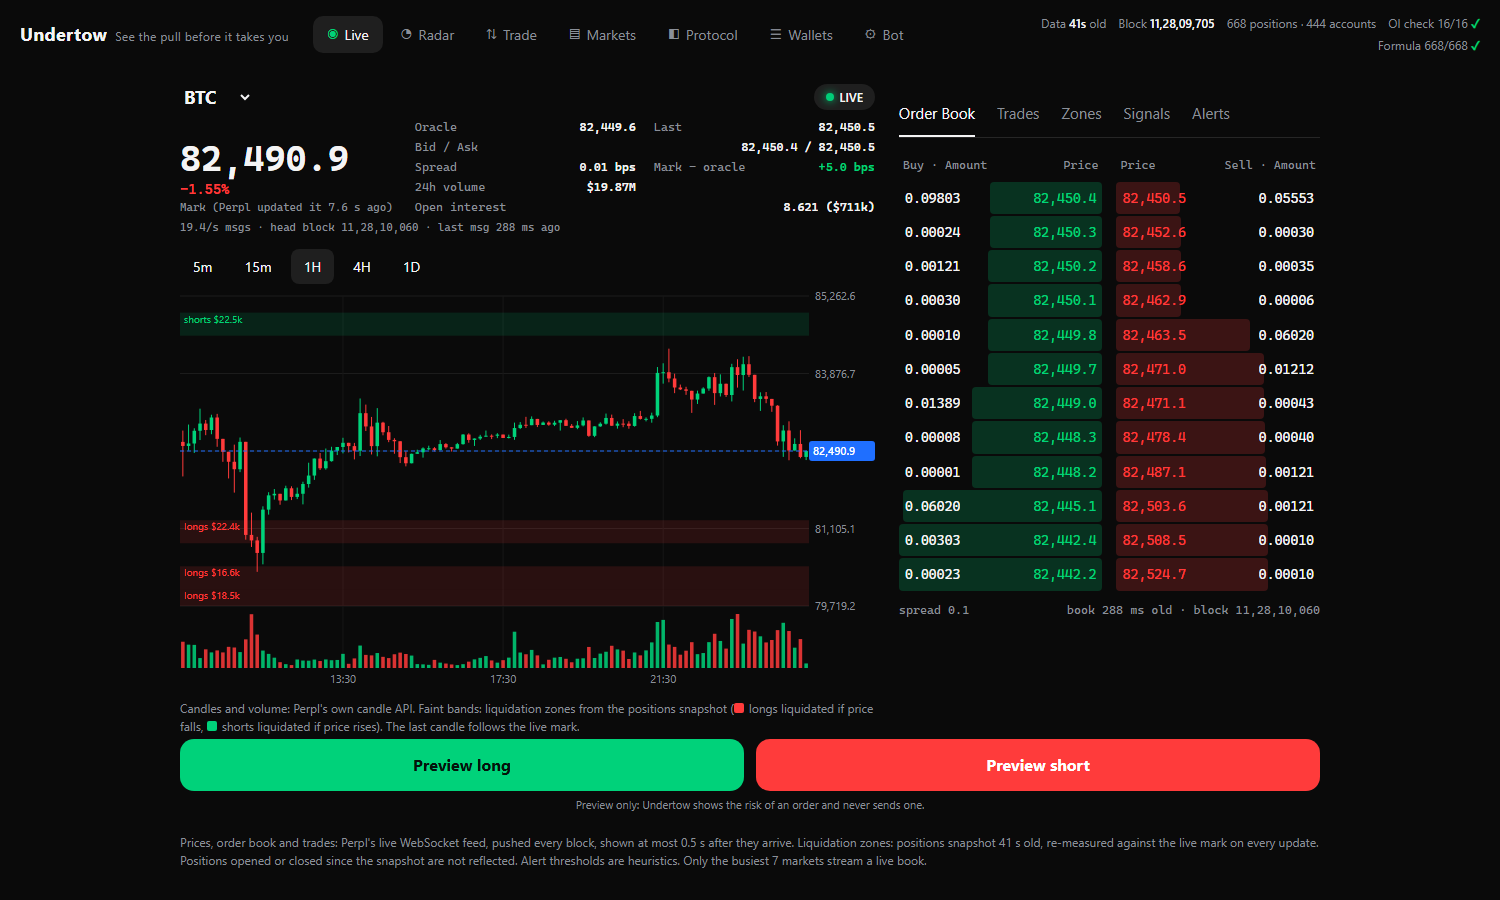
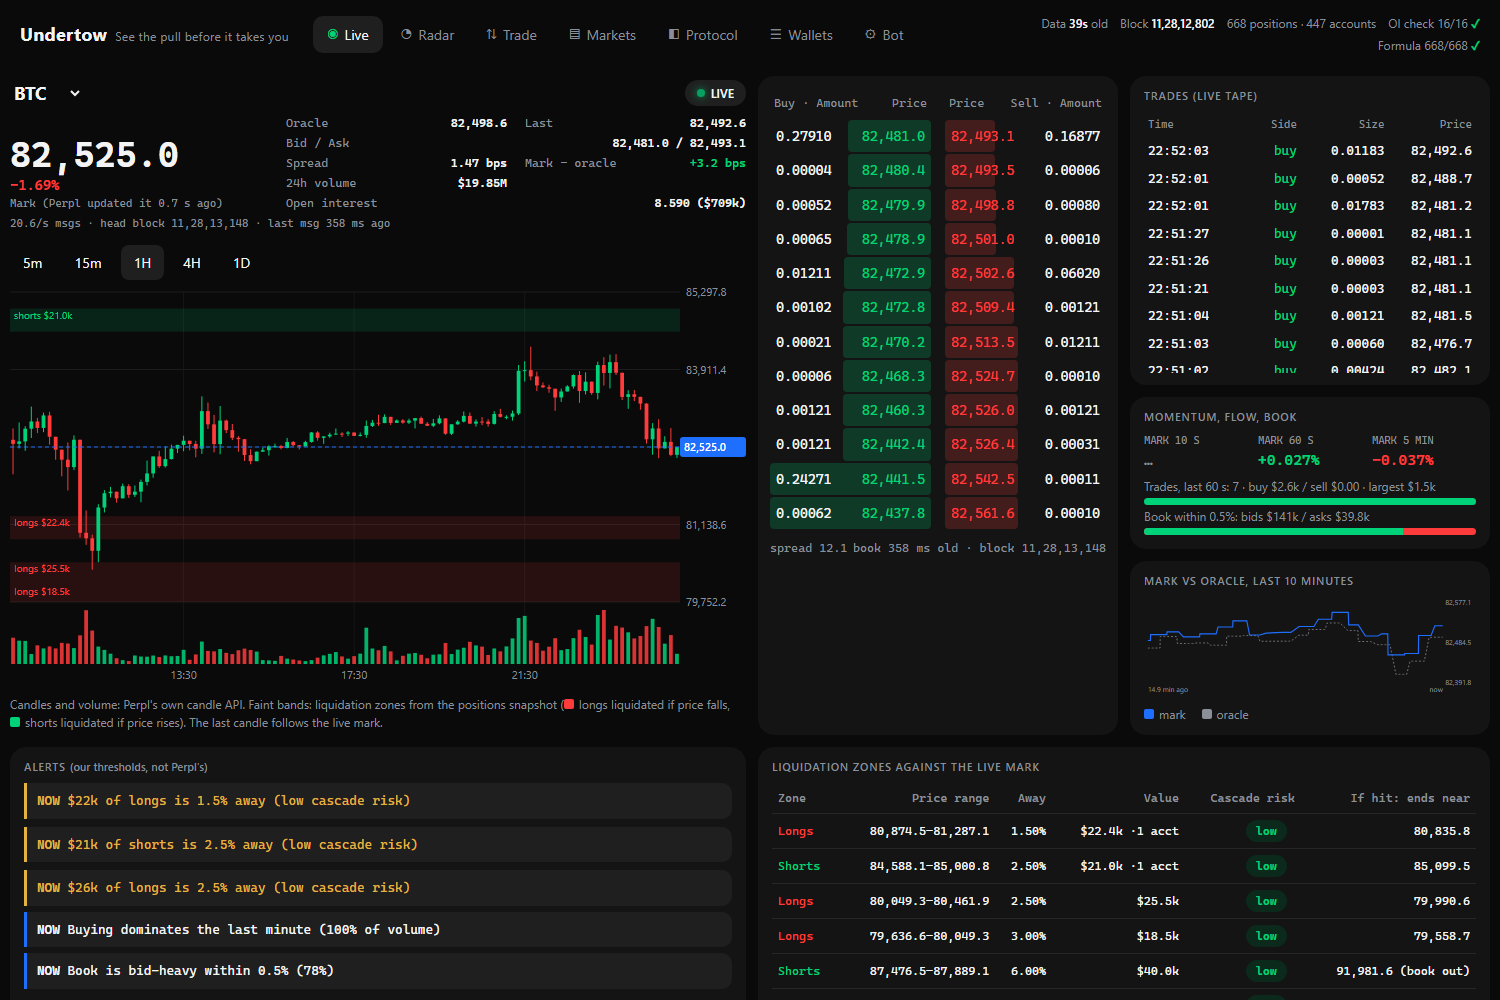
Live on wide screens: all panels on one edge-to-edge page like a trading terminal

diff --git a/undertow/web/index.html b/undertow/web/index.html
@@ -122,9 +122,22 @@
     .ctanote { margin-bottom: 20px; }
   }
   @media (min-width: 1100px) {
-    #tab-live { display: grid; grid-template-columns: minmax(0, 1.65fr) minmax(360px, 1fr); gap: 0 24px; align-items: start; }
-    #tab-live .lleft { grid-column: 1; } #tab-live .lright { grid-column: 2; grid-row: 1 / span 2; }
-    #tab-live .lfoot { grid-column: 1 / -1; }
+    /* wide screens: every Live panel on one page, edge to edge, like a trading terminal */
+    body:not(.notlive) main { max-width: none; padding: 8px 10px 40px; }
+    #tab-live { max-width: none; display: grid; gap: 12px; align-items: stretch;
+      grid-template-columns: minmax(0, 1fr) minmax(300px, 24vw) minmax(300px, 24vw);
+      grid-template-areas: "left book trades" "left book signals" "alerts zones zones" "foot foot foot"; }
+    #tab-live .lleft { grid-area: left; }
+    #tab-live .lright { display: contents; }
+    #tab-live .utabs { display: none; }
+    #tab-live .pane, #tab-live .pane[hidden] { display: block !important; padding: 0; min-width: 0; }
+    #tab-live .pane .lcard { height: 100%; margin: 0; }
+    #tab-live #lt-book { grid-area: book; } #tab-live #lt-trades { grid-area: trades; } #tab-live #lt-signals { grid-area: signals; }
+    #tab-live #lt-alerts { grid-area: alerts; } #tab-live #lt-zones { grid-area: zones; }
+    #tab-live #lt-book { background: var(--panel); border-radius: var(--radius); padding: 10px 12px; }
+    #tab-live #lt-signals { display: flex !important; flex-direction: column; gap: 12px; }
+    #tab-live .lfoot { grid-area: foot; }
+    .tape { max-height: 260px; }
   }
 </style>
 </head>
